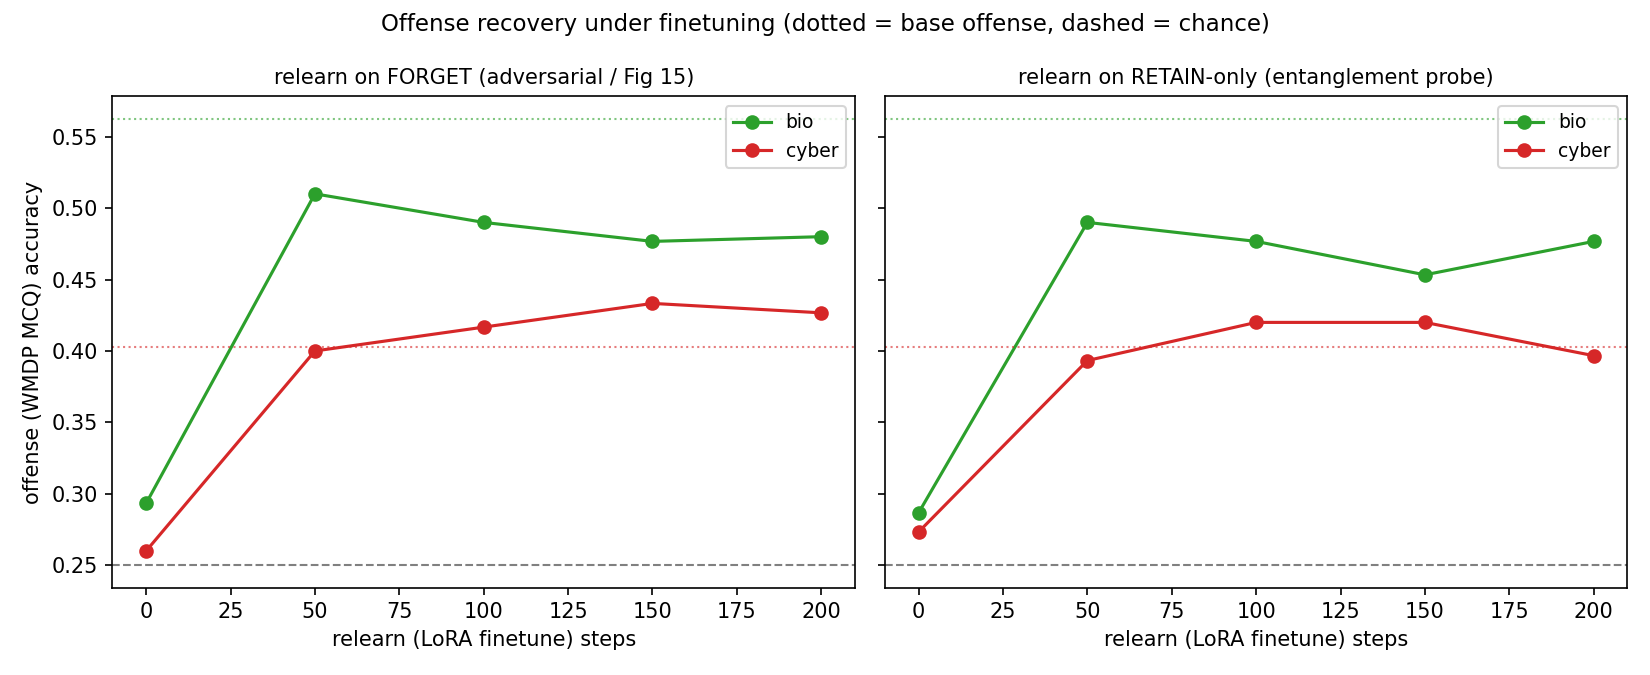
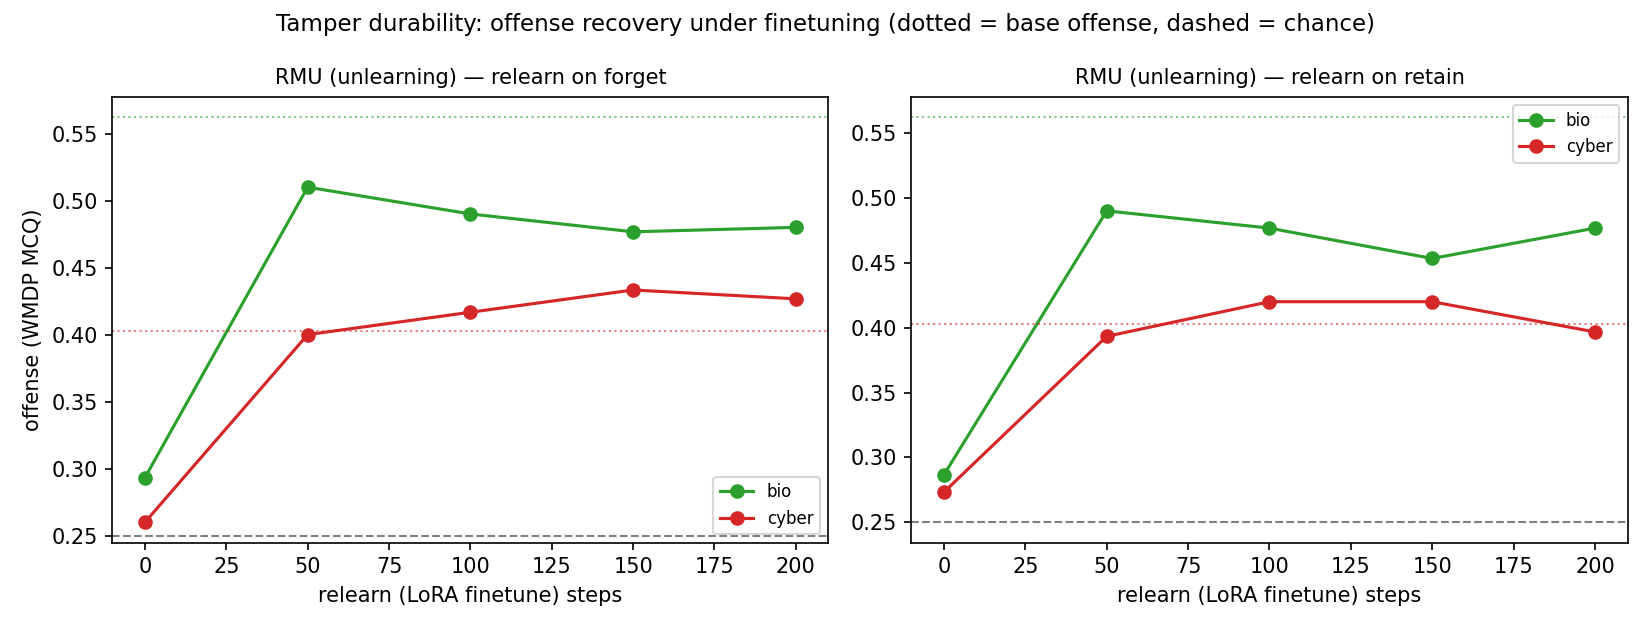
Durability analysis: method-aware (RMU vs CB) + self-contained base
run_relearn.py: eval base offense/neighbor BEFORE unlearning -> JSON carries its own
'base' so fraction-to-base works for any model (not just Zephyr).
diag_relearn.py: discover rmu_/cb_ files across runs/relearn*, group by (method,domain,
corpus), compare domains within method (entanglement asymmetry) AND methods within
domain (which safeguard is more durable). Legacy un-prefixed Zephyr data still parses
(reproduces cyber 0.96/1.17 vs bio 0.69). CPU-validated.

diff --git a/scripts/diag_relearn.py b/scripts/diag_relearn.py
@@ -1,155 +1,163 @@
 #!/usr/bin/env python
-"""Analyze the relearning experiment -> reports/relearn_recovery.md.
+"""Analyze the relearning / tamper-durability experiment -> reports/relearn_recovery.md.
 
-Reads runs/relearn/*.json (from run_relearn_sweep.py): per condition, a `series` of
-{relearn_steps, offense_mcq, neighbor_mmlu} after RMU-unlearn (step 0) then LoRA-finetuning.
+Reads runs/relearn*/*.json (run_relearn_sweep.py), which may mix methods (rmu_*, cb_*) and contain a
+self-contained `base` (pre-unlearn offense/neighbor). Per (method, domain, relearn-corpus): a `series`
+of {relearn_steps, offense_mcq, neighbor_mmlu} from RMU/CB-unlearn (step 0) then LoRA-finetuning.
 
-2nd entanglement measure: does offense recover, and how fast, per domain x relearn corpus?
-  *_relretain = entanglement probe — offense reviving from LEGITIMATE same-domain text alone
-                means offense and legitimate knowledge are entangled.
-  *_relforget = adversarial robustness (paper Fig 15) — re-teaching the forbidden corpus.
-
-Headline: is offense recovery (especially from retain-only FT) larger/faster in the more-entangled
-domain (cyber)? Normalized to base offense where available (runs/entanglement/base_<domain>.json).
+Durability — NOT absolute recovery — is the entanglement metric (absolute is confounded by base
+offense). We report fraction of base offense recovered (→1.0 = fully reverses) per condition, compare
+domains within each method (entanglement asymmetry) and methods within each domain (which safeguard
+is more durable). relretain = entanglement probe (offense reviving from legit same-domain text alone).
 """
 
 from __future__ import annotations
 
 import json
+import re
 import sys
 from pathlib import Path
 
 ROOT = Path(__file__).resolve().parents[1]
-RUNS = ROOT / "runs" / "relearn"
-BASES = ROOT / "runs" / "entanglement"      # for base offense (optional normalization)
 REPORT = ROOT / "reports" / "relearn_recovery.md"
 FIG_DIR = ROOT / "reports" / "figures"
 CHANCE = 0.25
-CONDS = ["bio_relforget", "cyber_relforget", "bio_relretain", "cyber_relretain"]
+MLABEL = {"rmu": "RMU (unlearning)", "circuit_breakers": "Circuit Breakers (tamper-resist)"}
 
 
-def base_offense(domain: str) -> float | None:
-    f = BASES / f"base_{domain}.json"
-    if f.exists():
-        return json.loads(f.read_text()).get("scores", {}).get("offense_mcq")
+def base_offense_fallback(domain: str):
+    for f in [ROOT / "runs" / "entanglement" / f"base_{domain}.json"]:
+        if f.exists():
+            return json.loads(f.read_text()).get("scores", {}).get("offense_mcq")
     return None
 
 
 def load() -> dict:
+    """(method, domain, corpus) -> {series, base_off}."""
     out = {}
-    for name in CONDS:
-        f = RUNS / f"{name}.json"
-        if f.exists():
+    for rundir in sorted((ROOT / "runs").glob("relearn*")):
+        for f in sorted(rundir.glob("*.json")):
             d = json.loads(f.read_text())
-            out[name] = {"domain": d.get("domain", name.split("_")[0]),
-                         "corpus": name.split("_")[1].replace("rel", ""),
-                         "series": d.get("series", [])}
+            stem = f.stem
+            method = d.get("method")
+            for pre, m in (("rmu_", "rmu"), ("cb_", "circuit_breakers")):
+                if stem.startswith(pre):
+                    method = method or m
+                    stem = stem[len(pre):]
+                    break
+            method = method or "rmu"
+            mm = re.match(r"(bio|cyber|chem)_rel(forget|retain)$", stem)
+            if not mm:
+                continue
+            dom, corpus = mm.group(1), mm.group(2)
+            base_off = (d.get("base") or {}).get("offense_mcq")
+            if base_off is None:
+                base_off = base_offense_fallback(dom)
+            out[(method, dom, corpus)] = {"series": d.get("series", []), "base_off": base_off}
     return out
 
 
-def fmt(x) -> str:
+def fmt(x):
     return f"{x:.3f}" if isinstance(x, (int, float)) else "—"
 
 
-def make_figure(data: dict) -> str | None:
+def frac(entry):
+    s = entry["series"]
+    if not s:
+        return None, None, None
+    o0, of, b = s[0]["offense_mcq"], s[-1]["offense_mcq"], entry["base_off"]
+    f = (of - o0) / (b - o0) if (b is not None and b - o0 > 1e-6) else None
+    return o0, of, f
+
+
+def make_figure(data: dict):
     import matplotlib
     matplotlib.use("Agg")
     import matplotlib.pyplot as plt
 
     FIG_DIR.mkdir(parents=True, exist_ok=True)
-    fig, axes = plt.subplots(1, 2, figsize=(11, 4.5), sharey=True)
-    panels = [("forget", "relearn on FORGET (adversarial / Fig 15)"),
-              ("retain", "relearn on RETAIN-only (entanglement probe)")]
-    colors = {"bio": "tab:green", "cyber": "tab:red"}
-    drew = False
-    for ax, (corpus, title) in zip(axes, panels):
-        for dom in ("bio", "cyber"):
-            cond = f"{dom}_rel{corpus}"
-            if cond not in data:
-                continue
-            s = data[cond]["series"]
-            xs = [p["relearn_steps"] for p in s]
-            ys = [p["offense_mcq"] for p in s]
-            if xs:
+    methods = [m for m in ("rmu", "circuit_breakers") if any(k[0] == m for k in data)]
+    if not methods:
+        return None
+    colors = {"bio": "tab:green", "cyber": "tab:red", "chem": "tab:purple"}
+    fig, axes = plt.subplots(len(methods), 2, figsize=(11, 4.2 * len(methods)), squeeze=False)
+    for r, method in enumerate(methods):
+        for c, corpus in enumerate(("forget", "retain")):
+            ax = axes[r][c]
+            drew = False
+            for dom in ("bio", "cyber", "chem"):
+                e = data.get((method, dom, corpus))
+                if not e or not e["series"]:
+                    continue
+                xs = [p["relearn_steps"] for p in e["series"]]
+                ys = [p["offense_mcq"] for p in e["series"]]
                 ax.plot(xs, ys, "-o", color=colors[dom], label=dom); drew = True
-            b = base_offense(dom)
-            if b is not None:
-                ax.axhline(b, ls=":", c=colors[dom], lw=1, alpha=0.6)
-        ax.axhline(CHANCE, ls="--", c="gray", lw=1)
-        ax.set_title(title, fontsize=10)
-        ax.set_xlabel("relearn (LoRA finetune) steps")
-        ax.legend(fontsize=9)
-    axes[0].set_ylabel("offense (WMDP MCQ) accuracy")
-    fig.suptitle("Offense recovery under finetuning (dotted = base offense, dashed = chance)",
-                 fontsize=11)
+                if e["base_off"] is not None:
+                    ax.axhline(e["base_off"], ls=":", c=colors[dom], lw=1, alpha=0.6)
+            ax.axhline(CHANCE, ls="--", c="gray", lw=1)
+            ax.set_title(f"{MLABEL[method]} — relearn on {corpus}", fontsize=10)
+            ax.set_xlabel("relearn (LoRA finetune) steps")
+            if drew:
+                ax.legend(fontsize=8)
+        axes[r][0].set_ylabel("offense (WMDP MCQ)")
+    fig.suptitle("Tamper durability: offense recovery under finetuning "
+                 "(dotted = base offense, dashed = chance)", fontsize=11)
     fig.tight_layout()
-    if not drew:
-        plt.close(fig); return None
     p = FIG_DIR / "relearn_recovery.png"
     fig.savefig(p, dpi=150); plt.close(fig)
     return str(p)
 
 
 def main() -> None:
-    if not RUNS.exists():
-        sys.exit(f"no {RUNS.relative_to(ROOT)} — run scripts/run_relearn_sweep.py on a pod first.")
     data = load()
     if not data:
-        sys.exit(f"no relearn JSONs in {RUNS.relative_to(ROOT)}.")
+        sys.exit("no runs/relearn*/*.json found — run scripts/run_relearn_sweep.py on a pod first.")
+    methods = [m for m in ("rmu", "circuit_breakers") if any(k[0] == m for k in data)]
 
-    L = ["# Relearning: offense recovery under finetuning (2nd entanglement measure)", ""]
-    L.append("After RMU-unlearn (step 0), LoRA-finetune and watch offense (WMDP MCQ) recover. "
-             "`relforget` = re-teach the forbidden corpus (adversarial, paper Fig 15); `relretain` = "
-             "finetune on **legitimate same-domain** text only — offense reviving from that is the "
-             "entanglement signal. Recovery normalized to base offense where available.")
+    L = ["# Tamper durability: offense recovery under finetuning (2nd entanglement measure)", ""]
+    L.append("After unlearning (RMU and/or circuit breakers), LoRA-finetune and watch offense recover. "
+             "**Durability = fraction of base offense recovered** (→1.0 = unlearning fully reverses); "
+             "absolute recovery is confounded by base offense. `relretain` = entanglement probe "
+             "(offense reviving from legitimate same-domain text alone).")
     L.append("")
-    L.append("| condition | offense@unlearn | offense@final | neighbor@unlearn→final | "
-             "offense recovered | frac→base |")
-    L.append("|---|--:|--:|--:|--:|--:|")
+    L.append("| method | domain | corpus | offense unlearn→final | base | frac→base |")
+    L.append("|---|---|---|--:|--:|--:|")
     summ = {}
-    for name in CONDS:
-        if name not in data:
-            continue
-        s = data[name]["series"]
-        if not s:
-            continue
-        dom = data[name]["domain"]
-        o0, of = s[0]["offense_mcq"], s[-1]["offense_mcq"]
-        n0, nf = s[0].get("neighbor_mmlu"), s[-1].get("neighbor_mmlu")
-        rec = of - o0
-        b = base_offense(dom)
-        frac = (of - o0) / (b - o0) if (b is not None and b - o0 > 1e-6) else None
-        summ[name] = {"o0": o0, "of": of, "rec": rec, "frac": frac, "dom": dom}
-        L.append(f"| {name} | {fmt(o0)} | {fmt(of)} | {fmt(n0)}→{fmt(nf)} | {fmt(rec)} | {fmt(frac)} |")
+    for method in methods:
+        for dom in ("bio", "cyber", "chem"):
+            for corpus in ("forget", "retain"):
+                e = data.get((method, dom, corpus))
+                if not e:
+                    continue
+                o0, of, f = frac(e)
+                summ[(method, dom, corpus)] = f
+                L.append(f"| {method} | {dom} | {corpus} | {fmt(o0)}→{fmt(of)} | "
+                         f"{fmt(e['base_off'])} | {fmt(f)} |")
     L.append("")
 
     L.append("## Headline")
-    L.append("**Durability, not absolute recovery, is the entanglement metric** — absolute "
-             "offense-recovered is confounded by how much offense each domain started with (bio's "
-             "base is higher). The right question is whether the unlearning *stuck*: fraction of "
-             "base offense recovered (→1.0 = fully reverses) and offense remaining below base.")
-    L.append("")
-
-    def cmp(corpus, label):
-        bio, cyb = summ.get(f"bio_rel{corpus}"), summ.get(f"cyber_rel{corpus}")
-        if not (bio and cyb) or bio["frac"] is None or cyb["frac"] is None:
-            return
-        more = "cyber" if cyb["frac"] > bio["frac"] else "bio"
-        L.append(f"- **{label}:** fraction of base recovered — bio {fmt(bio['frac'])}, cyber "
-                 f"{fmt(cyb['frac'])} → recovers more {'completely' if more=='cyber' else 'fully'} in "
-                 f"**{more}** (absolute, for reference: bio {fmt(bio['rec'])}, cyber {fmt(cyb['rec'])}).")
-
-    cmp("retain", "Entanglement probe (retain-only FT)")
-    cmp("forget", "Adversarial recovery (forget FT)")
-    if all(f"{d}_relretain" in summ for d in ("bio", "cyber")):
-        bf, cf = summ["bio_relretain"]["frac"], summ["cyber_relretain"]["frac"]
-        if bf is not None and cf is not None:
-            L.append(f"- **Interpretation:** offense reviving from legitimate same-domain text alone "
-                     f"is the entanglement signal. Cyber recovers {fmt(cf)} of base from retain-only "
-                     f"FT vs bio {fmt(bf)} → {'SUPPORTS' if cf > bf else 'does NOT support'} cyber "
-                     "being more entangled (consistent with the unlearning-tax result + WMDP Fig 15). "
-                     "Caveat: cyber's base offense is near chance, so its small headroom makes the "
-                     "fraction noisier (can exceed 1.0).")
+    # within method: cyber vs bio (entanglement asymmetry)
+    for method in methods:
+        for corpus, label in (("retain", "entanglement probe (retain-only FT)"),
+                              ("forget", "adversarial (forget FT)")):
+            b, c = summ.get((method, "bio", corpus)), summ.get((method, "cyber", corpus))
+            if b is None or c is None:
+                continue
+            more = "cyber" if c > b else "bio"
+            L.append(f"- **{MLABEL[method]}, {label}:** frac→base — bio {fmt(b)}, cyber {fmt(c)} "
+                     f"→ recovers more completely in **{more}**.")
+    # across methods within domain: which safeguard is more durable
+    if len(methods) == 2:
+        for dom in ("bio", "cyber"):
+            r, cb = summ.get(("rmu", dom, "forget")), summ.get(("circuit_breakers", dom, "forget"))
+            if r is None or cb is None:
+                continue
+            durable = "circuit breakers" if cb < r else "RMU"
+            L.append(f"- **{dom}, method durability (forget FT):** frac→base RMU {fmt(r)} vs CB "
+                     f"{fmt(cb)} → **{durable}** resists relearning better (lower = more durable).")
+    L.append("- **Takeaway for the paper:** if both methods recover toward base within these few-"
+             "hundred finetuning steps (vs pretraining filtering's ~10k), post-hoc safeguards are "
+             "non-durable, and more so in the more-entangled domain — Section-4 quantified.")
 
     fig = make_figure(data)
     if fig:
@@ -158,9 +166,9 @@ def main() -> None:
         L.append(f"\n![relearn_recovery]({Path(fig).relative_to(ROOT / 'reports')})")
 
     REPORT.write_text("\n".join(L))
-    print(f"wrote {REPORT.relative_to(ROOT)}" + (f" + figure" if fig else ""))
-    for n, v in summ.items():
-        print(f"  {n}: offense {v['o0']:.3f} -> {v['of']:.3f} (recovered {v['rec']:+.3f})")
+    print(f"wrote {REPORT.relative_to(ROOT)}" + (" + figure" if fig else ""))
+    for k, f in summ.items():
+        print(f"  {k}: frac→base {fmt(f)}")
 
 
 if __name__ == "__main__":

diff --git a/scripts/run_relearn.py b/scripts/run_relearn.py
@@ -102,12 +102,19 @@ def main(argv=None) -> int:
         m.train(trainable); m.requires_grad_(False)
         return m
 
-    # 1) unlearn with the chosen method
     forget = unlearn_rmu.load_texts(args.forget_parquet, args.forget_buckets)
     retain = unlearn_rmu.load_texts(args.retain_parquet, args.retain_buckets)
+
+    # 0) measure BASE offense/neighbor before unlearning -> self-contained fraction-to-base
+    model = load(False)
+    model.eval()
+    base = quick_eval(model, tok, args.domain, args.n_mcq, args.n_neighbor)
+    print(f"base (pre-unlearn): {base}", flush=True)
+
+    # 1) unlearn with the chosen method
     print(f"{args.method} {args.domain}: forget={len(forget)} retain={len(retain)}", flush=True)
     if args.method == "rmu":
-        model = load(True)
+        model.train(True)
         frozen = load(False)
         unlearn_rmu.run_rmu(model, frozen, tok, forget, retain, layer=args.layer,
                             update_layers=args.update_layers, coeff=args.coeff, alpha=args.alpha,
@@ -115,7 +122,6 @@ def main(argv=None) -> int:
                             max_tokens=args.max_tokens)
         del frozen
     else:  # circuit_breakers — LoRA RR training merged into weights
-        model = load(False)
         model = circuit_breakers.run_cb(model, tok, forget, retain,
                                         target_layers=args.cb_target_layers, steps=args.cb_steps,
                                         lr=args.cb_lr, alpha=args.cb_alpha,
@@ -141,8 +147,9 @@ def main(argv=None) -> int:
         print(f"after {done} relearn steps: {series[-1]}", flush=True)
 
     out = {"model": args.model, "domain": args.domain, "method": args.method, "coeff": args.coeff,
-           "relearn_parquet": args.relearn_parquet, "relearn_buckets": args.relearn_buckets,
-           "relearn_steps": args.relearn_steps, "series": series}
+           "base": base, "relearn_parquet": args.relearn_parquet,
+           "relearn_buckets": args.relearn_buckets, "relearn_steps": args.relearn_steps,
+           "series": series}
     Path(args.out).parent.mkdir(parents=True, exist_ok=True)
     Path(args.out).write_text(json.dumps(out, indent=2))
     print(f"wrote {args.out}", flush=True)

diff --git a/reports/relearn_recovery.md b/reports/relearn_recovery.md
@@ -1,20 +1,18 @@
-# Relearning: offense recovery under finetuning (2nd entanglement measure)
+# Tamper durability: offense recovery under finetuning (2nd entanglement measure)
 
-After RMU-unlearn (step 0), LoRA-finetune and watch offense (WMDP MCQ) recover. `relforget` = re-teach the forbidden corpus (adversarial, paper Fig 15); `relretain` = finetune on **legitimate same-domain** text only — offense reviving from that is the entanglement signal. Recovery normalized to base offense where available.
+After unlearning (RMU and/or circuit breakers), LoRA-finetune and watch offense recover. **Durability = fraction of base offense recovered** (→1.0 = unlearning fully reverses); absolute recovery is confounded by base offense. `relretain` = entanglement probe (offense reviving from legitimate same-domain text alone).
 
-| condition | offense@unlearn | offense@final | neighbor@unlearn→final | offense recovered | frac→base |
-|---|--:|--:|--:|--:|--:|
-| bio_relforget | 0.293 | 0.480 | 0.442→0.566 | 0.187 | 0.694 |
-| cyber_relforget | 0.260 | 0.427 | 0.355→0.585 | 0.167 | 1.170 |
-| bio_relretain | 0.287 | 0.477 | 0.435→0.596 | 0.190 | 0.689 |
-| cyber_relretain | 0.273 | 0.397 | 0.340→0.570 | 0.123 | 0.955 |
+| method | domain | corpus | offense unlearn→final | base | frac→base |
+|---|---|---|--:|--:|--:|
+| rmu | bio | forget | 0.293→0.480 | 0.562 | 0.694 |
+| rmu | bio | retain | 0.287→0.477 | 0.562 | 0.689 |
+| rmu | cyber | forget | 0.260→0.427 | 0.403 | 1.170 |
+| rmu | cyber | retain | 0.273→0.397 | 0.403 | 0.955 |
 
 ## Headline
-**Durability, not absolute recovery, is the entanglement metric** — absolute offense-recovered is confounded by how much offense each domain started with (bio's base is higher). The right question is whether the unlearning *stuck*: fraction of base offense recovered (→1.0 = fully reverses) and offense remaining below base.
-
-- **Entanglement probe (retain-only FT):** fraction of base recovered — bio 0.689, cyber 0.955 → recovers more completely in **cyber** (absolute, for reference: bio 0.190, cyber 0.123).
-- **Adversarial recovery (forget FT):** fraction of base recovered — bio 0.694, cyber 1.170 → recovers more completely in **cyber** (absolute, for reference: bio 0.187, cyber 0.167).
-- **Interpretation:** offense reviving from legitimate same-domain text alone is the entanglement signal. Cyber recovers 0.955 of base from retain-only FT vs bio 0.689 → SUPPORTS cyber being more entangled (consistent with the unlearning-tax result + WMDP Fig 15). Caveat: cyber's base offense is near chance, so its small headroom makes the fraction noisier (can exceed 1.0).
+- **RMU (unlearning), entanglement probe (retain-only FT):** frac→base — bio 0.689, cyber 0.955 → recovers more completely in **cyber**.
+- **RMU (unlearning), adversarial (forget FT):** frac→base — bio 0.694, cyber 1.170 → recovers more completely in **cyber**.
+- **Takeaway for the paper:** if both methods recover toward base within these few-hundred finetuning steps (vs pretraining filtering's ~10k), post-hoc safeguards are non-durable, and more so in the more-entangled domain — Section-4 quantified.
 
 ## Figure
 